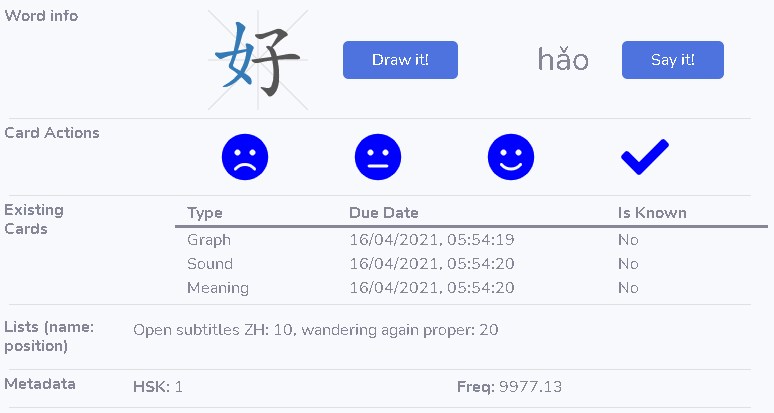
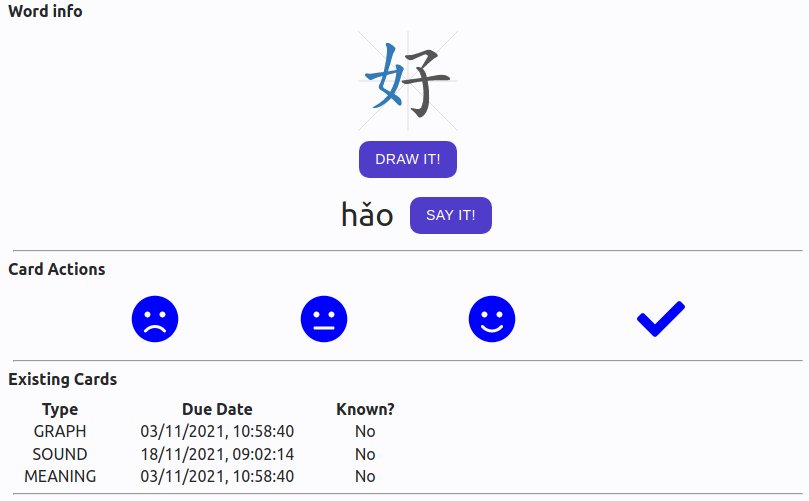
Lots of improvements
and lots more to come...

diff --git a/content/page/software/configure/wordlists.md b/content/page/software/configure/wordlists.md
@@ -3,4 +3,31 @@ title: Word lists
 comments: false
 ---
 
-Wordlists are created by importing and analysing texts, then directing the system to create a list from the imported data. Texts can be simple lists of words (CSV or TXT are currently supported, more soon), or actual content (currently EPUB ebooks and SRT/VTT subtitles formats are supported, more soon). The system stores [information from the analysis](/page/software/configure/imports) and allows
+Wordlists are created by [importing and analysing texts](/page/software/configure/imports), then directing the system to create a list from the imported data. Texts can be simple lists of words (CSV or TXT are currently supported, more soon), or actual content (currently EPUB ebooks and SRT/VTT subtitles formats are supported, more soon). That makes it easy to both study lists like you might get for an exam, or a chapter in a textbook, but also content. You might really want to watch the latest blockbuster movie, and creating a list from the subtitles means you can spend some time going over the new vocabulary before you watch it (then afterwards also, which is a really great way to learn!).
+
+## Wordlist Details
+<img src="/img/wordlists/wordlist-show1.png"/>
+
+#### Title and Description
+Wordlists have a Title (which is required and is shown in lists) and a Description, that allows you to put in background information if you need to. 
+
+#### Import
+Each wordlist originates from an Import and you can create as many wordlists as you like from a single Import.
+
+#### Processing status
+When you create a wordlist, the system has to perform a number of calculations and updates to the database, so it can take a couple of minutes to finish. The Processing status tells you where the wordlist creation process is currently.
+
+#### Nb to take, Minimum abs frequency, Minimum doc frequency and Order by
+
+"Nb to take", "Minimum abs frequency", "Minimum doc frequency" and "Order by" are all options that allow you to control the items that get put in the list from the import. Say you import an eBook. Any given novel will have many thousands of unique words ("types" as they are often called), including lots of very uncommon ones. You might like to only select a maximum number of items for the list, so "Nb to take" allows that. You may also not want to actively learn the "uncommon" words, as you won't be seeing them often (so you can learn them later!). However, "common" is relative! Transcrobes uses the [spoken word frequencies](https://www.ugent.be/pp/experimentele-psychologie/en/research/documents/subtlexch/overview.htm) from the University of Gent (based on movie subtitle frequencies) to allow you to choose word frequencies. These are expressed in words-per-million. You can see the frequencies of any word in the [Notrobes](/page/software/learn/notrobes) tool, to get an idea of what you might like to set that at. Setting it to -1 has no limit. But the overall frequencies might not mean much. For example, overall the word "phoenix" might be very uncommon but, as it happens, very common in the Harry Potter book you want to read right now. So you can also choose to set a minimum frequency in the document, so the number of times the word appears in the book = Minimum doc frequency. Again, setting it to -1 will include everything. Because you can choose to limit to a maximum number of items, it also matter how you order the items, so the "Order by" allows you to control that, according to the two same criteria as the "minimum frequencies".
+
+## Wordlist Progress
+<img src="/img/wordlists/wordlist-show2.png"/>
+
+The system also looks at how you have been learning over time, and gives you a view over how much you have learnt over the last two months. This gives you an idea of your rate of improvement, and allows you to have some idea when you might learn all the words.
+
+## List view
+<img src="/img/wordlists/wordlist-list.png"/>
+
+The list view allows you to see the wordlists you already have, as well as giving you the Processing status.
+

diff --git a/content/page/software/learn/notrobes.md b/content/page/software/learn/notrobes.md
@@ -32,31 +32,24 @@ Card Actions allow you to update the information the system has about your knowl
 ## Existing Cards
 Existing cards shows you the most recent information the system has on your [revision of the cards](/page/software/learn/repetrobes), including the (approximate) next time you should expect to see it in the revision tool. If the state is "Is Known", then you don't need to revise it - the date is when the system calculates you might forget, but when you say you know a word, the system doesn't second guess you (so you don't get bothered with a word you know and can concentrate on those you haven't mastered yet).
 
+<img src="/img/notrobes/hao2.png"/>
+
 ## Lists
 A word can belong to zero or more [word lists](/page/software/configure/wordlists). Word lists allow you to choose what [vocabulary you revise](/page/software/learn/repetrobes) and to [set and monitor goals](/page/software/configure/goals). A word becomes part of a list when you [import a list or content](/page/software/configure/imports).
+
+## Recently Seen Phrases
+This section contains phrases/sentences that you have seen in content recently with the platform. The system keeps the last 3 phrases (between 5 and 25 words long) for each part of speech that the system has seen for the word. This means you get examples from stuff you are already familiar with, which helps many learners learn quicker.
 
 ## Metadata
 Several different kinds of metadata are available. For Chinese the [HSK](https://en.wikipedia.org/wiki/Hanyu_Shuiping_Kaoshi) and [spoken word frequencies](https://www.ugent.be/pp/experimentele-psychologie/en/research/documents/subtlexch/overview.htm).
 
-<img src="/img/notrobes/hao2.png"/>
+<img src="/img/notrobes/hao3.png"/>
 
 ## Entry Definitions
-Transcrobes gets different bilingual dictionary definitions from various sources (and can support more if they are available). The abbreviations are the following:
 
-|Abbreviation|Part of speech|
-|----------|----------|
-|ADJ   |Adjectives|
-|ADV   |Adverbs|
-|CONJ  |Conjunctions|
-|DET   |Determiners|
-|MODAL |Verbs|
-|NOUN  |Nouns|
-|PREP  |Prepositions|
-|PRON  |Pronouns|
-|VERB  |Verbs|
-|OTHER |Other|
+Transcrobes currently gets definitions from several available resources. Currently Microsoft's <a href="https://www.microsoft.com/en-us/translator/business/translator-api/">Bing Lookup and Translator services</a> are supported, along with <a href="https://cc-cedict.org/editor/editor.php">CC-CEDICT</a>. Microsoft's Translator service is used so that learners always get a translation, even if the system is unable to find a word in the traditional dictionaries. While the system sometimes finds words that don't correspond to traditional dictionary items, using the translator means that 99% of the time you can understand, which is what the goal is!
 
-These were adapted from the system used by [Microsoft's Azure Cognitive Services Text API](https://docs.microsoft.com/en-us/azure/cognitive-services/translator/reference/v3-0-dictionary-lookup)
+<img src="/img/notrobes/hao4.png"/>
 
 ## Related Words
 

diff --git a/content/page/software/configure/glossing.md b/content/page/software/configure/glossing.md
@@ -9,28 +9,40 @@ All the options have value for learning and the happier you are reading, the mor
 
 By default the system also segments texts into words (where the language doesn't usually do that) but that can be turned off for each module (ebook reading, media/video or web) if you don't want that.
 
-# Current Options
+# Current In-Text Options
 
-The current options available are:
+The current in-text glossing options available are:
 
 | Name | Status | Comments |
 |------|--------|----------|
 | Unmodified Text | available | No glossing |
-| Simpler words | coming soon | If the system knows of synonyms that you already know, words are glossed with those |
+| Simpler words | basic support | If the system knows of synonyms that you already know, words are glossed with those, otherwise in your native language |
 | Transliteration | available | The sound representation of the word (Pinyin for Chinese), great for heritage learners |
 | Native Language | available | Context-based gloss in your native language |
+| Transliteration + Native Language | available | Context-based gloss in your native language and a transliteration |
 
-## Unmodified Text
+## Popover
+
+You can also activate the popover glossing option, that will present a very simply popup when the mouse goes onto a word (or with a long-press on Android). The popup appears whether you know the word or not, and contains the part of speech, the native gloss, a simpler (known) synonym (if one exists) and the transliteration (Pinyin).
+
+## Screenshots
+### Unmodified Text
 <img style="max-width:80%" src="/img/boocrobes/3body4.png"/>
 
-## Segmented Text
+### Segmented Text
 <img style="max-width:80%" src="/img/boocrobes/3body5.png"/>
 
-## Transliteration
+### Transliteration
 <img style="max-width:80%" src="/img/boocrobes/3body6.png"/>
 
-## Native Language
+### Native Language
 <img style="max-width:80%" src="/img/boocrobes/3body7.png"/>
+
+### Transliteration + Native Language
+<img style="max-width:80%" src="/img/boocrobes/3body8.png"/>
+
+### Popover gloss
+<img style="max-width:80%" src="/img/boocrobes/3body9.png"/>
 
 ## Future Glossing Modes
 There are also a number of other enrichment styles that are in the pipeline. One particularly relevant for Chinese might be to only highlight compound words that it knows you know the component parts of (rather than gloss them). Or maybe a mix of all of the possible styles, depending on how common the words are and the particular part of speech. Text-to-speech will soon be available, so you can hear individual words, or even entire sentences. All these options, and many more, will become available over time and as Transcrobes gets a better picture of your knowledge, the rate you learn will increase dramatically.

diff --git a/content/page/meaningful-io/experiment.md b/content/page/meaningful-io/experiment.md
@@ -12,8 +12,8 @@ In order to validate both the theory and implementation of it in code, an instal
 
 # Partipation
 
-A copy of the City University of Hong Kong validated ethics consent form is available [here](https://am.transcrob.es/tos/). If you are currently learning (simplified) Mandarin Chinese and are interested in participating, please read that document in full before registering, to ensure that participation in the experiment is right for you.
+A copy of the City University of Hong Kong validated ethics consent form is available [here](https://am.transcrob.es/consent.html). If you are currently learning (simplified) Mandarin Chinese and are interested in participating, please read that document in full before registering, to ensure that participation in the experiment is right for you.
 
-If new registrations are currently being accepted, you will be able to register [here](https://am.transcrob.es/accounts/register/). Server resources are limited, so it may be necessary to limit the number of participants if (as expected!) it becomes wildly popular. It is hoped to be able to support several hundred users though, so hopefully everyone who wants a spot can get one.
+If new registrations are currently being accepted, you will be able to register [here](https://am.transcrob.es/#/signup). Server resources are limited, so it may be necessary to limit the number of participants if (as expected!) it becomes wildly popular. It is hoped to be able to support several hundred users though, so hopefully everyone who wants a spot can get one.
 
 Experimental subjects will not be remunerated for their participation but will be able to use the system for real learning over an extended period (until 2023 at the earliest) for no charge. It is hoped that funding will be able to be found to continue providing the service free of charge but as user data will *never, ever, ever* be sold in any way, shape or form, that may not be possible. Experimental participants will always be in total and complete control of their data at all times though and, because the service is completely open source, will always be able to run their own system afterwards (or at any time).

diff --git a/content/page/software/install/clients/transcrobes.md b/content/page/software/install/clients/transcrobes.md
@@ -6,7 +6,7 @@ comments: false
 
 # Before you begin
 
-The Transcrobes website (and [Brocrobes](/page/install/clients/brocrobes)) both use the latest web browser standard functionalities to provide for a rich, offline-capable learning and content experience. That means that even though it is entirely browser-based, you can still use most of the functionality offline, like reading ebooks, watching movies or practising vocabulary. In order to support that, Transcrobes needs to download and prepare quite a bit of data, so before you get started you will need to do that. Don't worry, you just need to sign up (or log in with the details your admin gives you) and then click Ok to initialise.
+The Transcrobes website (and [Brocrobes](/page/software/install/clients/brocrobes)) both use the latest web browser standard functionalities to provide for a rich, offline-capable learning and content experience. That means that even though it is entirely browser-based, you can still use most of the functionality offline, like reading ebooks, watching movies or practising vocabulary. In order to support that, Transcrobes needs to download and prepare quite a bit of data, so before you get started you will need to do that. Don't worry, you just need to sign up (or log in with the details your admin gives you) and then click Ok to initialise.
 
 A word of warning - the initialisation process will take 10-20 minutes (depending on your device) and your device needs to do quite a bit of work, so it might heat up a bit (but probably less than a gaming session!). You should make sure your device is plugged in/charging when you do this (obligatory for Android devices - installation will stop and need to be restarted if it's not charging due to Android wanting to save your battery) and that you are on wifi (or you have a generous data plan). Initialisation will need to download around 35-50MB of data. The data files and web resources (images, javascript, html, css, etc.) need to be downloaded so you don't ever have to worry about not having a great connection. Transcrobes will resynchronise automatically when it can connect again, meaning all your devices stay in sync.
 

diff --git a/content/page/software/learn/brocrobes.md b/content/page/software/learn/brocrobes.md
@@ -19,7 +19,7 @@ Brocrobes is a browser extension that allows you to enrich any webpage with the 
 
 ## Using Brocrobes
 
-To use brocrobes, [after you have installed it](/page/software/install/clients/browser-extensions), simply navigate to the webpage you are interested in - any webpage - and click on the web extension button `Transcrobe Me!`. Depending on the complexity and size of the webpage, it might take a few seconds for the enrichment process to start to be visible but rest assured, Transcrobes is working hard in the background.
+To use brocrobes, [after you have installed it](/page/software/install/clients/brocrobes), simply navigate to the webpage you are interested in - any webpage - and click on the web extension button `Transcrobe Me!`. Depending on the complexity and size of the webpage, it might take a few seconds for the enrichment process to start to be visible but rest assured, Transcrobes is working hard in the background.
 
 Sometimes `brocrobes` will make a bit of a mess of a webpage, due to bad webpage coding by the site developers. The better you know the language of the webpage, the less of a mess those sites will be. The idea behind brocrobes is that if there are so many words on a page that get translated inline that it makes a mess, you definitely won't be able to understand anything on the page without it. So short of using a full webpage translation tool like Google Translate (which can make a mess too), you either have a choice of not being able to understand anything, or having the page a bit messy. It's up to you - click on the Transcrobe Me! button or not - you decide!
 

diff --git a/content/page/software/configure/imports.md b/content/page/software/configure/imports.md
@@ -8,10 +8,9 @@ Lists of vocabulary and content can be imported into Transcrobes.
 <img style="max-width:70%" src="/img/imports/3body1.png"/>
 
 When files are imported, they are parsed and analysed, and important information is stored about them.
-
 <img style="max-width:70%" src="/img/imports/3body2.png"/>
 
-These analyses can then be used for creating [word lists](/pages/software/configure/wordlists). [Word lists](/page/software/configure/wordlists) are the basis for several Transcrobes features, including vocabulary revision and setting goals, with more to come soon. Depending on the file type, imports of the appropriate type will appear as [ebooks](/page/software/learn/boocrobes) or [media/video](/page/software/learn/moocrobes)(for subtitles). Those interfaces then allow the enriching of the content for reading/watching with the comprehension aids the system provides.
+These analyses can then be used for creating [word lists](/page/software/configure/wordlists). [Word lists](/page/software/configure/wordlists) are the basis for several Transcrobes features, including vocabulary revision and setting goals, with more to come soon. Depending on the file type, imports of the appropriate type will appear as [ebooks](/page/software/learn/boocrobes) or [media/video](/page/software/learn/moocrobes) (for subtitles). Those interfaces then allow the enriching of the content for reading/watching with the comprehension aids the system provides.
 
 # Supported formats
 ## Importing lists

diff --git a/content/page/software/configure/goals.md b/content/page/software/configure/goals.md
@@ -7,7 +7,7 @@ One of the key philosophical drivers behind Transcrobes is learner freedom. Trad
 
 Goals can be cut up into sub-goals, which are then grouped together so that they are more achievable, making it easier to get a clear idea of how the learner is progressing. For example, each chapter of a novel could be a sub-goal of the goal of reading the novel. Each chapter in a textbook could be a sub-goal of the goal of the textbook, and getting an A this year.
 
-So key to the learning process is realtime feedback as to where learners are on their journey towards their goals. Setting goals is currently mainly achieved via [imports](/page/software/configure/imports), which can in turn be the basis of [word lists](/page/configure/wordlists). These word lists can then be used to create sub-goals and goals. Grammatical patterns, idiomatic expressions and more will be added soon.
+So key to the learning process is realtime feedback as to where learners are on their journey towards their goals. Setting goals is currently mainly achieved via [imports](/page/software/configure/imports), which can in turn be the basis of [word lists](/page/software/configure/wordlists). These word lists can then be used to create sub-goals and goals. Grammatical patterns, idiomatic expressions and more will be added soon.
 
 
 

diff --git a/content/page/software/install/clients/brocrobes.md b/content/page/software/install/clients/brocrobes.md
@@ -11,7 +11,7 @@ Transcrobes includes a Chrome browser extension `brocrobes`. You can install the
 
 # Connecting to the Transcrobes Server {#browser-login}
 
-You will need to connect the extension to the server with the server URL, your username and password. Get in touch with your server admin for information on getting those. If you are enrolled in the [Meaningful IO Research project](/page/meaningful-io/transcrobes), please follow [the specific instructions for that](/page/meaningful-io/transcrobes) to sign up.
+You will need to connect the extension to the server with the server URL, your username and password. Get in touch with your server admin for information on getting those. If you are enrolled in the [Meaningful IO Research project](/page/meaningful-io/home), please follow [the specific instructions for that](/page/meaningful-io/experiment) to sign up.
 
 After you have signup details and installed the extension, you will need to head to the extension configuration/options page. First right-click on the extension button (you might need to make it show it first), then select "Extension options".
 

diff --git a/content/page/software/install/server/user-setup.md b/content/page/software/install/server/user-setup.md
@@ -9,8 +9,8 @@ Currently, Transcrobes system administrators can chose whether to activate signu
 
 If you would like to take part in the [Meaningful IO Research project](/page/meaningful-io/home), please follow the instructions [here](/page/meaningful-io/experiment) to see whether spaces are still available.
 
-Please refer to the setup documentation for each client application for details on setting up each individual application, available [here](/page/software/install/clients/overview)
+Please refer to the setup documentation for each client application for details on setting up each individual application, available [here](/page/software/install/clients/home)
 
 # For admins
 
-User creation is currently done via a fairly standard signup process (requiring email validation) or directly by the admin in the Django Admin user interface. Website signups are off by default, so you will either need to allow it via an envvar.
+User creation is currently done via a fairly standard signup process (requiring email validation). Website signups are off by default, so you will need to allow it via an envvar.

diff --git a/content/page/software/configure/home.md b/content/page/software/configure/home.md
@@ -9,5 +9,5 @@ comments: false
 |----------|-------------|------|------|
 | [imports](/page/software/configure/imports) | Data/Content import | available | Supported formats: TXT, CSV, epub (v3), SRT, VTT (more soon) |
 | [word lists](/page/software/configure/wordlists) | Define meaningful vocabulary/grammar sets | Vocabulary available | Grammar lists available soon |
-| [goals](/page/software/configure/goals) | Define personal goals | Basic availability |  |
-| [glossing](/page/software/configure/glossing) | Content glossing | available | Supported types: None, segmented, known synonym, native language (more soon) |
+| [goals](/page/software/configure/goals) | Define personal goals | Basic availability | Goals based on single lists and basic progress information available. Predictive algorithm (when the goal will be achieved based on recent progress) coming soon! |
+| [glossing](/page/software/configure/glossing) | Content glossing | available | Supported types: None, segmented, known synonym, sounds/transliterations, native language, sounds + native language (more soon) |

diff --git a/content/page/software/configure/contents.md b/content/page/software/configure/contents.md
@@ -1,0 +1,14 @@
+---
+title: Contents
+comments: false
+---
+
+Contents are created by first [importing a supported file format](/page/software/configure/imports), and then telling the system to <b>enrich</b> them.
+
+
+## Active learning-focused activities
+
+| Name | Activity Type | Status | Comments |
+|----------|-------------|------|------|
+| [repetrobes](/page/software/learn/repetrobes) | vocabulary memorisation | available | Some user interface usability issues on mobile are currently being improved |
+| [notrobes](/page/software/learn/notrobes) | word lookup | available | many functions available, many more planned! |
